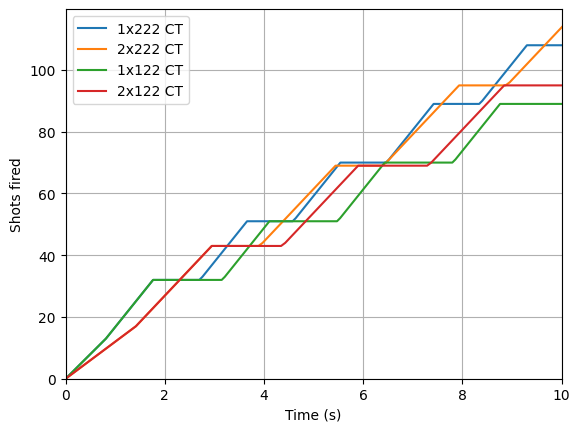
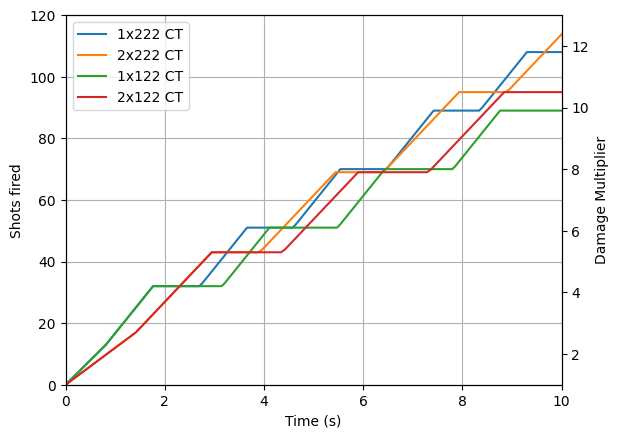
add CT bolt graphs

diff --git a/conductive_thermals.md b/conductive_thermals.md
@@ -27,15 +27,15 @@ Here's a graph comparing damage values for various drak builds. The curves for t
 
 ![alt text](img/ct_damage.png)
 
-Conductive Thermals really takes a while to build up DPS, and spends a long time ramping up even with the double application from plasma splash. For sniping high-value targets (usually Scout's job) it's way worse than TEF, since TEF is able to sustain high DPS when switching targets whereas CT must build up stacks again each time. This tends to remove Scout's ability to do his normal job and relegates him to a status effect dispenser on large tanky targets. Fortunately, with the two behaviors mentioned above, CT does make the class effective and fun to play in this role as long as the high-value killing and can be filled by someone else.
+Conductive Thermals really takes a while to build up DPS, and spends a long time ramping up even with the double application from plasma splash. For sniping high-value targets (usually Scout's job) it's way worse than TEF, since TEF is able to sustain high DPS when switching targets whereas CT must build up stacks again each time. This tends to remove Scout's ability to do his normal job and relegates him to a status effect dispenser on large tanky targets. Fortunately, with the two behaviors mentioned above, CT does make the class effective and fun to play in this role as long as the high-value killing and can be filled by someone else. (You can kinda cope by sniping them with bolts, but that's really not ideal.)
 
-Despite Plasma Splash doing only 2.5 fire damage per shot, the uncapped double stack application makes it quickly come to dominate the weapon's DPS if you shoot more than one burst. Eventually it will also start being able to compete with TEF, though only on that one target.
+Despite Plasma Splash doing only 2.5 fire damage per shot, the uncapped double stack application makes it quickly come to dominate the weapon's DPS if you shoot more than one burst. Eventually it will also start being able to compete with and surpass TEF, though only on that one target.
 
 Somewhat less spectacularly but still very usefully, the temperature status effect makes it much easier to freeze goo bombers and Naedocyte Breeders.
 
 ## Build comparison
 
-This graph shows how many shots you can get out if you try as hard as possible (stay above 50% heat whenever possible to take advantage of the rate of fire buff from t5b).
+This graph shows how many shots you can get out if you try as hard as possible (stay above 50% heat whenever possible to take advantage of the rate of fire buff from t5b). The bonus multiplier for burn/frost/electric damage is also shown on the right side assuming each shot procs two copies of the effect (both direct hit and plasma splash).
 
 ![alt text](img/ct_sustain.png)
 
@@ -44,5 +44,25 @@ Large targets are not particularly hard to hit, so you might as well lean into t
 From the graph, it's clear that t3b (faster cooling) gives better sustained output than t3a (accuracy) assuming you don't miss. This is not surprising.
 
 In tier 1, the choice is less clear. The total output after 10 seconds is slightly higher with t1b, but not by much, and it only decisively pulls ahead if you take t3a and shoot for longer than 7 seconds. You can kill a high-value target slightly faster in ideal circumstances with t1a (rate of fire), but taking t1b (less heat per shot) makes that kill more consistent and more flexible. You're less likely to overheat in combat with t1b, and your shots are spread over a higher duty cycle so it's a bit easier to time those bursts to just barely avoid overheating. I think it's down to your personal preference.
+
+## Fire and taser bolts
+
+Earlier, I mentioned that a common stategy is to pair CT with fire and taser bolts. Alternatively, you could use the boomstick, or a teammate's weapon.
+
+The following graph shows the accumulated damage done when you apply various bolts and then start applying conductive thermals with the same strategy as in the previous section. The damage the drak does while you're applying the stacks is listed separately so it's easier to add together whatever combination of taser/firebolt effects you want.
+
+I only included the 1x222 build. Initially I also included 2x222, but the results overlapped so closely with 1x222 that I decided they were redundant. (They were closer together than the blue and yellow lines on this graph.)
+
+As you can see, the effectiveness stops curving upward after 10 seconds because the effect stacks begin to wear off. Additionally, note that firebolts last only 6 seconds while I assume the bug keeps burning for the whole graph time. Fire bolts do no damage, only heat, so the entire damage value comes from the enemy being on fire. Taser bolts last 15 seconds if you take the tier 5 upgrade. You can probably sneak in extra bolts while the drak is cooling, after reloading with Born Ready.
+
+![](img/ct_bolts.png)
+
+A few lessons we can learn from this:
+* What you do in the first few seconds - whether you shoot bolts and then start shooting CT, or do it in the other order - doesn't matter much because the first few seconds are a pretty small proportion of total damage, at least against high health bosses. What matters most is just getting that CT stack count up to a high number. Though, I will note that you get more value out of each bolt by holding them back until you've already accumulated a few CT stacks. You can think of that as skipping ahead in the graph instead of starting at the origin.
+* Using two electric bolts on the same enemy gives a lot more value than spreading them between two different enemies. This is because the electric arc is substantially stronger than each individual bolt. However, it might be overkill for non-boss enemies. For reference, a Dreadnought Twin has 7650 health on h5p4 and a Bulk has 6000. Also I've heard that sometimes shooting two tasers can have glitches like the beam or the electricity of one of them mysteriously failing to apply.
+
+As a bonus, here are a few more things added to the graph:
+
+![](img/ct_bolts_extra.png)
 
 [Back to DRG Analysis](README.md)
